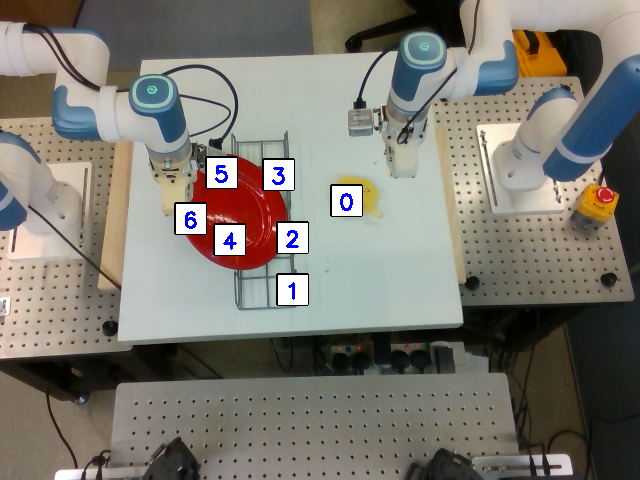
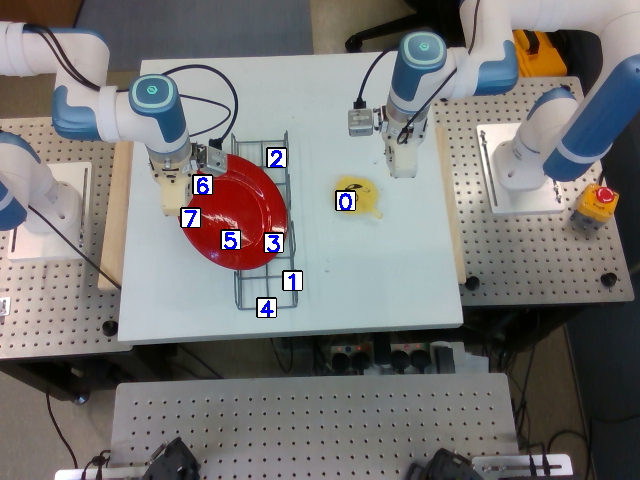
bug fix: adjust the color and rotation of the projected image

Changed region(s): [[0.25, 0.3125, 0.5938, 0.5312], [0.375, 0.5625, 0.5, 0.6875], [0.4062, 0.2812, 0.4688, 0.4062]]

diff --git a/ModelTrain/dp/keypoint_proposer.py b/ModelTrain/dp/keypoint_proposer.py
@@ -121,8 +121,8 @@ class KeypointProposer:
         for keypoint_count, pixel in enumerate(candidate_pixels):
             displayed_text = f"{keypoint_count}"
             text_length = len(displayed_text)
-            box_width = 30 + 10 * (text_length - 1)
-            box_height = 30
+            box_width = 18 + 6 * (text_length - 1)
+            box_height = 18
 
             # ---- Step 1: Draw white box with black border directly on projected image ----
             top_left = (pixel[1] - box_width // 2, pixel[0] - box_height // 2)
